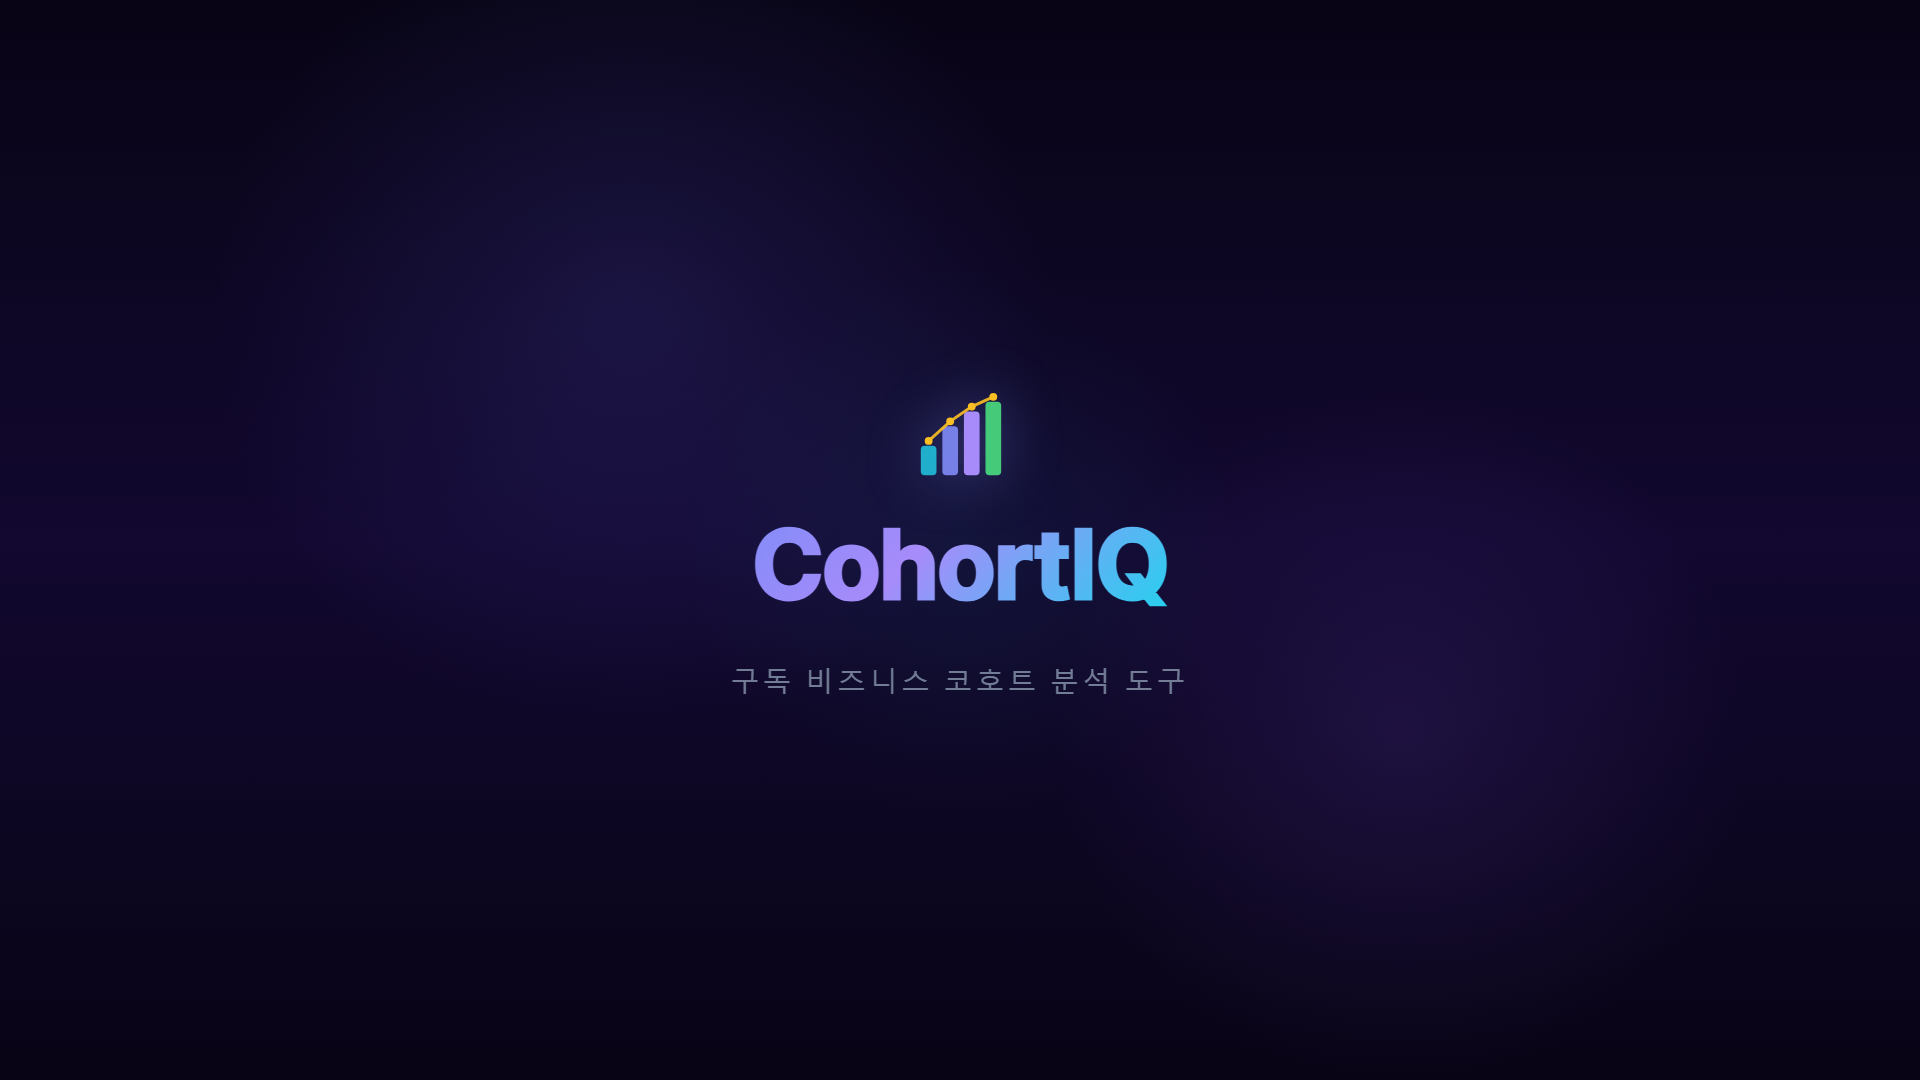
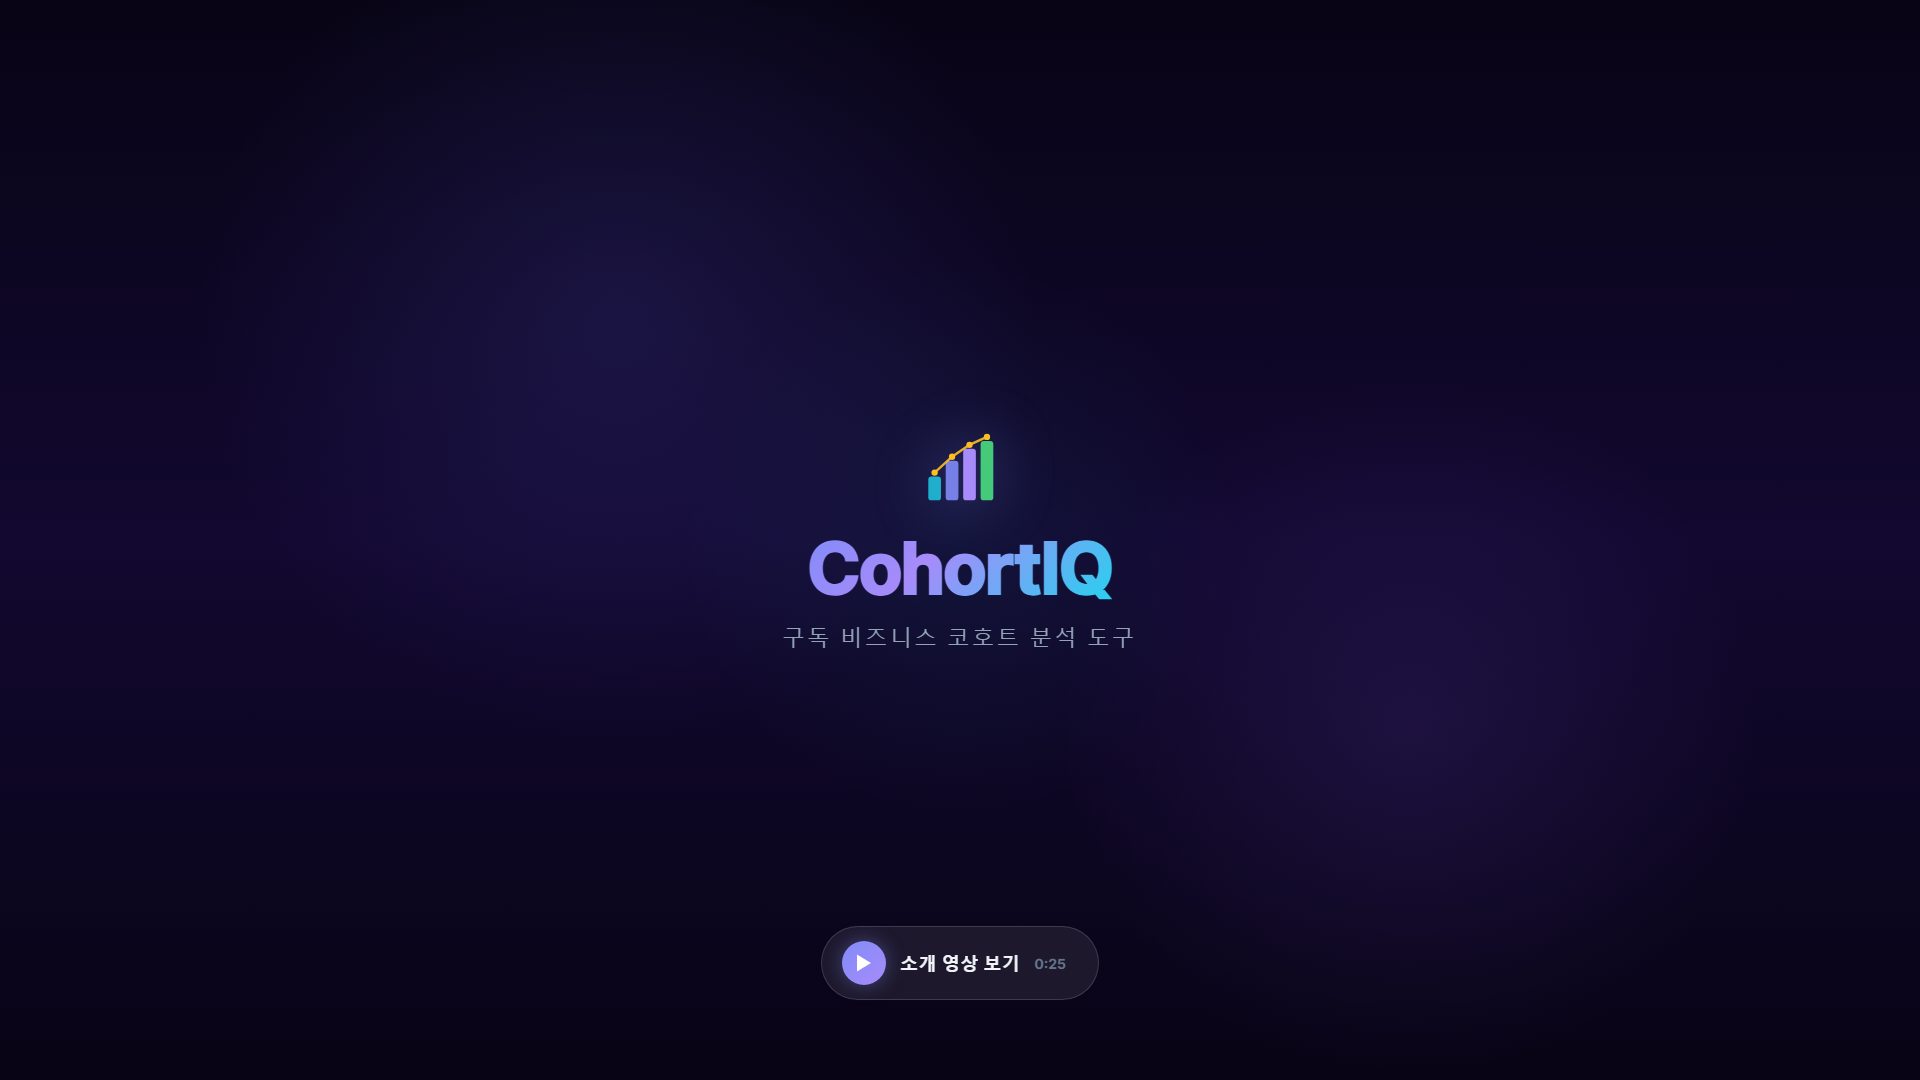
docs: 소개 영상 썸네일에 재생 버튼 오버레이 추가
- Thumbnail.tsx 컴포지션 신규 추가 (재생 버튼 + 0:25 표시)
- Root.tsx에 Thumbnail 컴포지션 등록
- video-thumbnail.png 재렌더링

Changed region(s): [[0.375, 0.4889, 0.625, 0.6417], [0.4062, 0.8556, 0.5625, 0.9472], [0.4688, 0.3667, 0.5312, 0.4583]]

diff --git a/cohort-iq-video/src/Thumbnail.tsx b/cohort-iq-video/src/Thumbnail.tsx
@@ -1,0 +1,165 @@
+import React from 'react';
+import {
+  AbsoluteFill,
+  useCurrentFrame,
+  interpolate,
+  spring,
+  useVideoConfig,
+} from 'remotion';
+import { COLORS, FONT_FAMILY } from './styles';
+
+export const Thumbnail: React.FC = () => {
+  const frame = useCurrentFrame();
+  const { fps } = useVideoConfig();
+
+  const logoScale = spring({
+    fps,
+    frame,
+    config: { damping: 12, stiffness: 100 },
+    durationInFrames: 30,
+  });
+
+  const subtitleOpacity = interpolate(frame, [20, 40], [0, 1], {
+    extrapolateLeft: 'clamp',
+    extrapolateRight: 'clamp',
+  });
+
+  const pulse = 1 + Math.sin(frame * 0.08) * 0.02;
+
+  // Animated orbs
+  const orb1X = 30 + Math.sin(frame * 0.01) * 5;
+  const orb1Y = 25 + Math.cos(frame * 0.008) * 5;
+  const orb2X = 70 + Math.cos(frame * 0.012) * 4;
+  const orb2Y = 65 + Math.sin(frame * 0.009) * 6;
+
+  return (
+    <AbsoluteFill
+      style={{
+        background: `
+          radial-gradient(ellipse 600px 600px at ${orb1X}% ${orb1Y}%, rgba(99, 102, 241, 0.15) 0%, transparent 70%),
+          radial-gradient(ellipse 500px 500px at ${orb2X}% ${orb2Y}%, rgba(139, 92, 246, 0.12) 0%, transparent 70%),
+          radial-gradient(ellipse 400px 400px at 50% 50%, rgba(34, 211, 238, 0.06) 0%, transparent 70%),
+          linear-gradient(180deg, ${COLORS.bgDark} 0%, ${COLORS.bgMid} 50%, ${COLORS.bgDark} 100%)
+        `,
+        fontFamily: FONT_FAMILY,
+        justifyContent: 'center',
+        alignItems: 'center',
+      }}
+    >
+      {/* Logo + Title */}
+      <div
+        style={{
+          display: 'flex',
+          flexDirection: 'column',
+          alignItems: 'center',
+          transform: `scale(${logoScale * pulse})`,
+          opacity: logoScale,
+        }}
+      >
+        {/* SVG Chart Icon */}
+        <svg
+          width="80"
+          height="80"
+          viewBox="0 0 100 100"
+          fill="none"
+          style={{
+            marginBottom: 16,
+            filter: 'drop-shadow(0 0 30px rgba(129, 140, 248, 0.4))',
+          }}
+        >
+          <rect x="10" y="60" width="16" height="30" rx="4" fill={COLORS.cyan} opacity={0.8} />
+          <rect x="32" y="40" width="16" height="50" rx="4" fill={COLORS.indigo} opacity={0.9} />
+          <rect x="54" y="25" width="16" height="65" rx="4" fill={COLORS.violet} />
+          <rect x="76" y="15" width="16" height="75" rx="4" fill={COLORS.green} opacity={0.9} />
+          <path d="M18 55 L40 35 L62 20 L84 10" stroke={COLORS.amber} strokeWidth="3" strokeLinecap="round" fill="none" opacity={0.9} />
+          <circle cx="18" cy="55" r="4" fill={COLORS.amber} />
+          <circle cx="40" cy="35" r="4" fill={COLORS.amber} />
+          <circle cx="62" cy="20" r="4" fill={COLORS.amber} />
+          <circle cx="84" cy="10" r="4" fill={COLORS.amber} />
+        </svg>
+
+        <h1
+          style={{
+            fontSize: 72,
+            fontWeight: 800,
+            margin: 0,
+            letterSpacing: '-2px',
+            background: `linear-gradient(135deg, ${COLORS.indigo} 0%, ${COLORS.violet} 40%, ${COLORS.cyan} 100%)`,
+            WebkitBackgroundClip: 'text',
+            WebkitTextFillColor: 'transparent',
+            backgroundClip: 'text',
+          }}
+        >
+          CohortIQ
+        </h1>
+
+        <p
+          style={{
+            fontSize: 22,
+            color: COLORS.textSecondary,
+            margin: '12px 0 0 0',
+            fontWeight: 400,
+            letterSpacing: '3px',
+            textTransform: 'uppercase',
+            opacity: subtitleOpacity,
+          }}
+        >
+          구독 비즈니스 코호트 분석 도구
+        </p>
+      </div>
+
+      {/* Play Button Overlay */}
+      <div
+        style={{
+          position: 'absolute',
+          bottom: 80,
+          display: 'flex',
+          alignItems: 'center',
+          gap: 14,
+          background: 'rgba(255, 255, 255, 0.08)',
+          border: '1px solid rgba(255, 255, 255, 0.15)',
+          borderRadius: 50,
+          padding: '14px 32px 14px 20px',
+          backdropFilter: 'blur(12px)',
+          opacity: subtitleOpacity,
+        }}
+      >
+        {/* Play circle */}
+        <div
+          style={{
+            width: 44,
+            height: 44,
+            borderRadius: 22,
+            background: `linear-gradient(135deg, ${COLORS.indigo}, ${COLORS.violet})`,
+            display: 'flex',
+            justifyContent: 'center',
+            alignItems: 'center',
+            boxShadow: '0 0 20px rgba(129, 140, 248, 0.4)',
+          }}
+        >
+          <svg width="18" height="20" viewBox="0 0 18 20" fill="none">
+            <path d="M2 1.5L16 10L2 18.5V1.5Z" fill="white" />
+          </svg>
+        </div>
+        <span
+          style={{
+            fontSize: 18,
+            fontWeight: 600,
+            color: COLORS.textPrimary,
+            letterSpacing: '0.5px',
+          }}
+        >
+          소개 영상 보기
+        </span>
+        <span
+          style={{
+            fontSize: 14,
+            color: COLORS.textMuted,
+          }}
+        >
+          0:25
+        </span>
+      </div>
+    </AbsoluteFill>
+  );
+};

diff --git a/cohort-iq-video/src/Root.tsx b/cohort-iq-video/src/Root.tsx
@@ -1,6 +1,7 @@
 import React from 'react';
 import { Composition } from 'remotion';
 import { CohortIQVideo } from './CohortIQVideo';
+import { Thumbnail } from './Thumbnail';
 import { FPS, TOTAL_FRAMES } from './styles';
 
 export const Root: React.FC = () => {
@@ -10,6 +11,14 @@ export const Root: React.FC = () => {
         id="CohortIQIntro"
         component={CohortIQVideo}
         durationInFrames={TOTAL_FRAMES}
+        fps={FPS}
+        width={1920}
+        height={1080}
+      />
+      <Composition
+        id="Thumbnail"
+        component={Thumbnail}
+        durationInFrames={60}
         fps={FPS}
         width={1920}
         height={1080}
